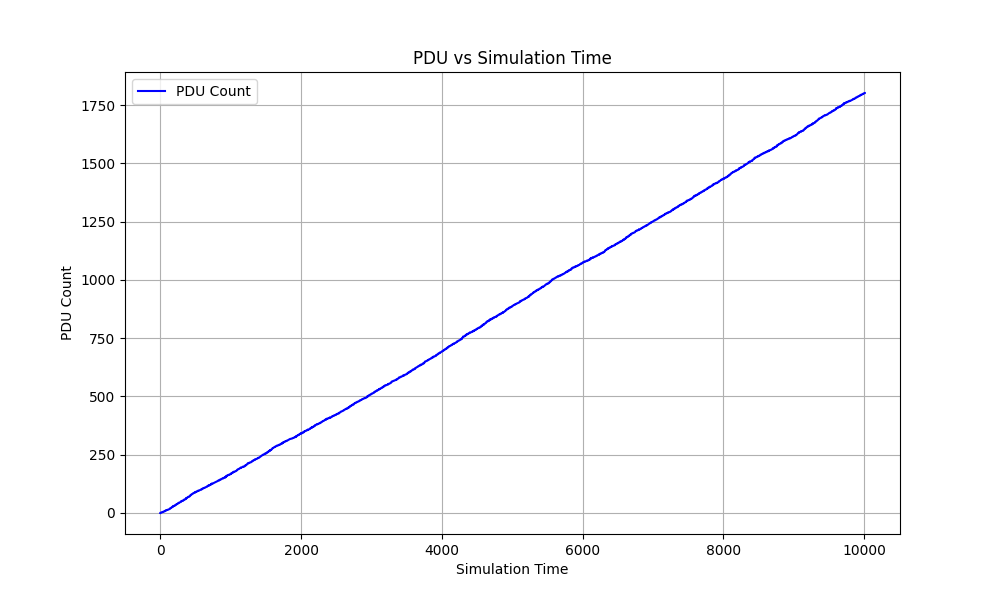
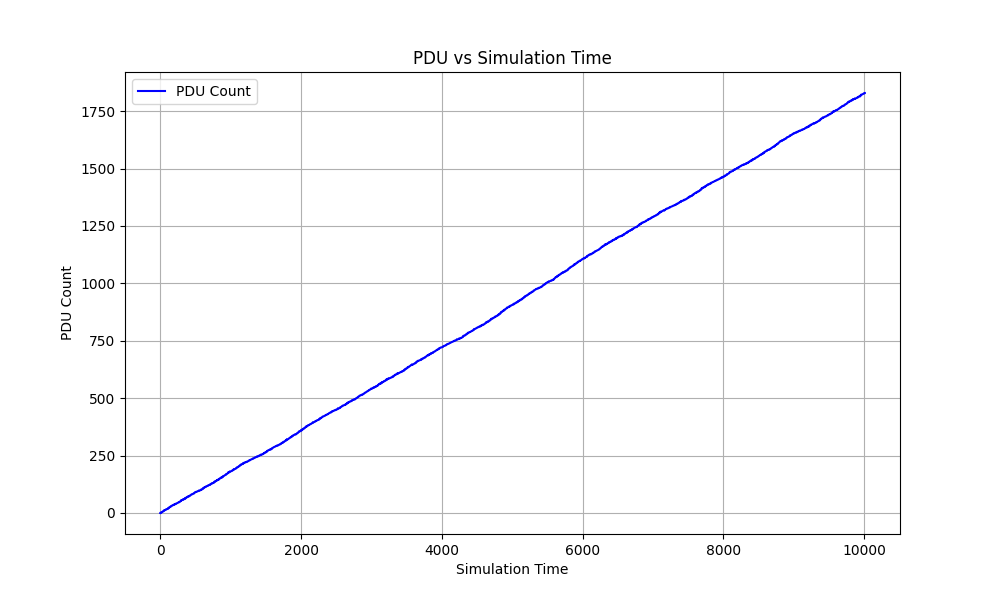
Corrected the threshold algorithm

diff --git a/main.py b/main.py
@@ -7,8 +7,6 @@ import matplotlib.pyplot as plt
 # Event types
 EVENT_GENERATE_PDU_SESSION = 1
 EVENT_TERMINATE_PDU_SESSION = 2
-EVENT_SCALE_OUT = 3
-EVENT_SCALE_IN = 4
 
 
 class Event:
@@ -116,6 +114,8 @@ class Scheduler:
         self.session_counter = 0
         self.current_time = 0
         self.simulation_time = simulation_time
+        self.active_sessions = 0  # I: number of sessions being served
+        self.free_slots = 0  # U: number of free slots in the system
         self.output_file = output_file
 
     def _log(self, message):
@@ -126,6 +126,12 @@ class Scheduler:
         """
         with open(self.output_file, 'a') as f:
             f.write(message + '\n')
+
+    def update_free_slots(self):
+        """
+        Update the number of free slots in the system.
+        """
+        self.free_slots = sum(self.max_sessions_per_upf - len(upf.sessions) for upf in self.upfs)
 
     def generate_pdu_session(self):
         """
@@ -155,13 +161,16 @@ class Scheduler:
                 self.terminate_pdu_session(session)
 
         if available_upf:
-            if len(available_upf.sessions) >= self.max_sessions_per_upf - self.scale_out_threshold:
+            if (self.active_sessions == (self.num_upf_instances * self.max_sessions_per_upf) -
+                    self.scale_out_threshold - 1) and self.num_upf_instances < self.max_upf_instances:
                 self.scale_out()
                 available_upf = self.upfs[-1]
 
             message = f"Time: {self.current_time}, UE sends PDU session {session_id} request to Compute Node"
             self._log(message)
             available_upf.add_session(session)
+            self.active_sessions += 1
+            self.update_free_slots()
             end_event = Event(EVENT_TERMINATE_PDU_SESSION, self.current_time + duration)
             heapq.heappush(self.event_queue, end_event)
 
@@ -180,10 +189,11 @@ class Scheduler:
         upf = next((upf for upf in self.upfs if session in upf.sessions), None)
         if upf:
             upf.remove_session(session)
+            self.active_sessions -= 1
+            self.update_free_slots()
             message = f"Time: {self.current_time}, PDU Session {session.session_id} terminated on UPF {upf.upf_id}"
             self._log(message)
-            if self.num_upf_instances > self.min_upf_instances and len(
-                    upf.sessions) == self.max_sessions_per_upf - self.scale_in_threshold:
+            if self.free_slots == self.scale_in_threshold and self.num_upf_instances >= self.min_upf_instances + 1:
                 self.scale_in(upf)
 
     def scale_out(self):
@@ -196,6 +206,7 @@ class Scheduler:
             new_upf = UPF(new_upf_id)
             self.upfs.append(new_upf)
             self.num_upf_instances += 1
+            self.update_free_slots()
             message = f"Time: {self.current_time}, Compute Node launches UPF {new_upf_id}"
             self._log(message)
 
@@ -208,6 +219,7 @@ class Scheduler:
         if upf.upf_id >= self.min_upf_instances:
             self.upfs.remove(upf)
             self.num_upf_instances -= 1
+            self.update_free_slots()
             message = f"Time: {self.current_time}, Compute Node terminates UPF {upf.upf_id}"
             self._log(message)
 
@@ -288,11 +300,11 @@ class Scheduler:
 
 if __name__ == "__main__":
     parser = argparse.ArgumentParser(description="Event-based scheduler simulation")
-    parser.add_argument("--max-upf-instances", type=int, default=4, help="Maximum number of UPF instances (L)")
+    parser.add_argument("--max-upf-instances", type=int, default=110, help="Maximum number of UPF instances (L)")
     parser.add_argument("--min-upf-instances", type=int, default=1, help="Minimum number of UPF instances (M)")
-    parser.add_argument("--max-sessions-per-upf", type=int, default=3, help="Maximum number of sessions per UPF (C)")
-    parser.add_argument("--scale-out-threshold", type=int, default=2, help="Scale-out threshold (T1)")
-    parser.add_argument("--scale-in-threshold", type=int, default=3, help="Scale-in threshold (T2)")
+    parser.add_argument("--max-sessions-per-upf", type=int, default=8, help="Maximum number of sessions per UPF (C)")
+    parser.add_argument("--scale-out-threshold", type=int, default=3, help="Scale-out threshold (T1)")
+    parser.add_argument("--scale-in-threshold", type=int, default=13, help="Scale-in threshold (T2)")
     parser.add_argument("--simulation-time", type=int, default=10000, help="Simulation time")
     parser.add_argument("--output-file", type=str, default="simulation.log", help="File to write simulation outputs")
 
